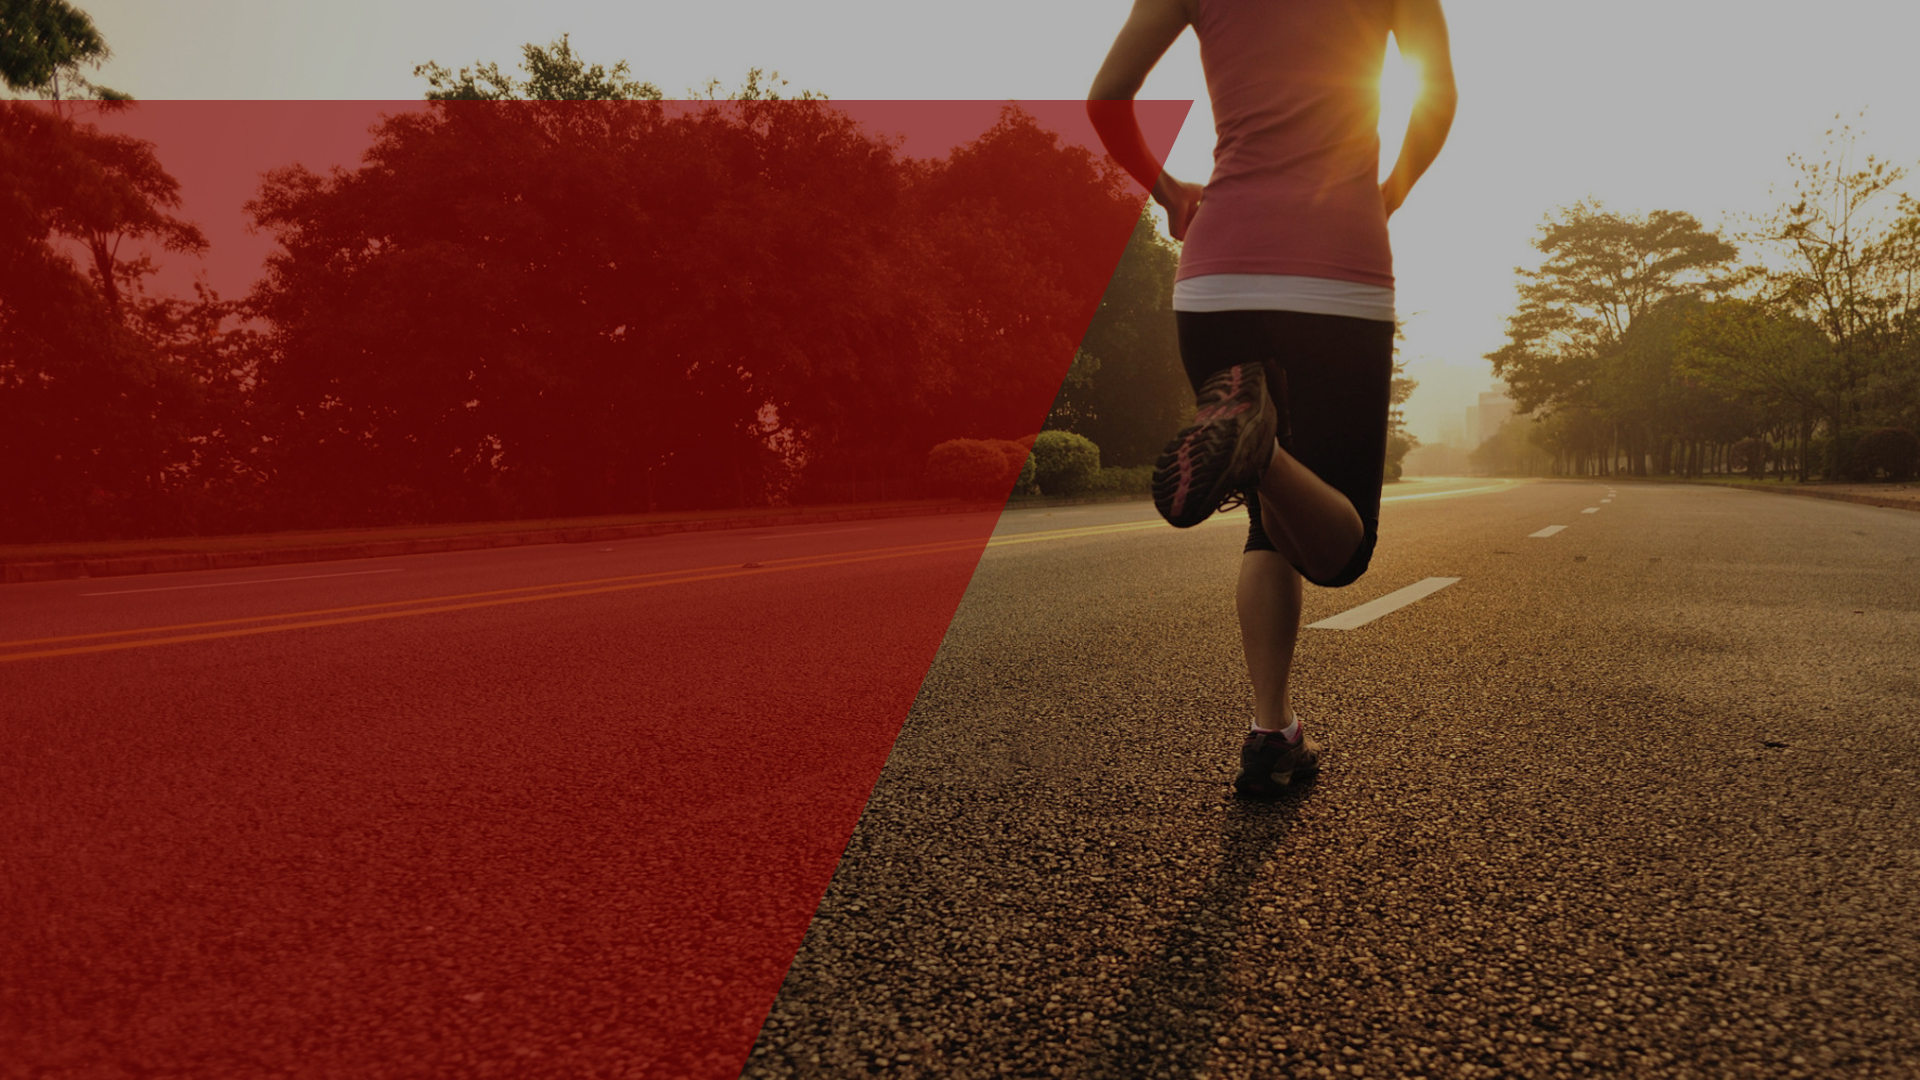
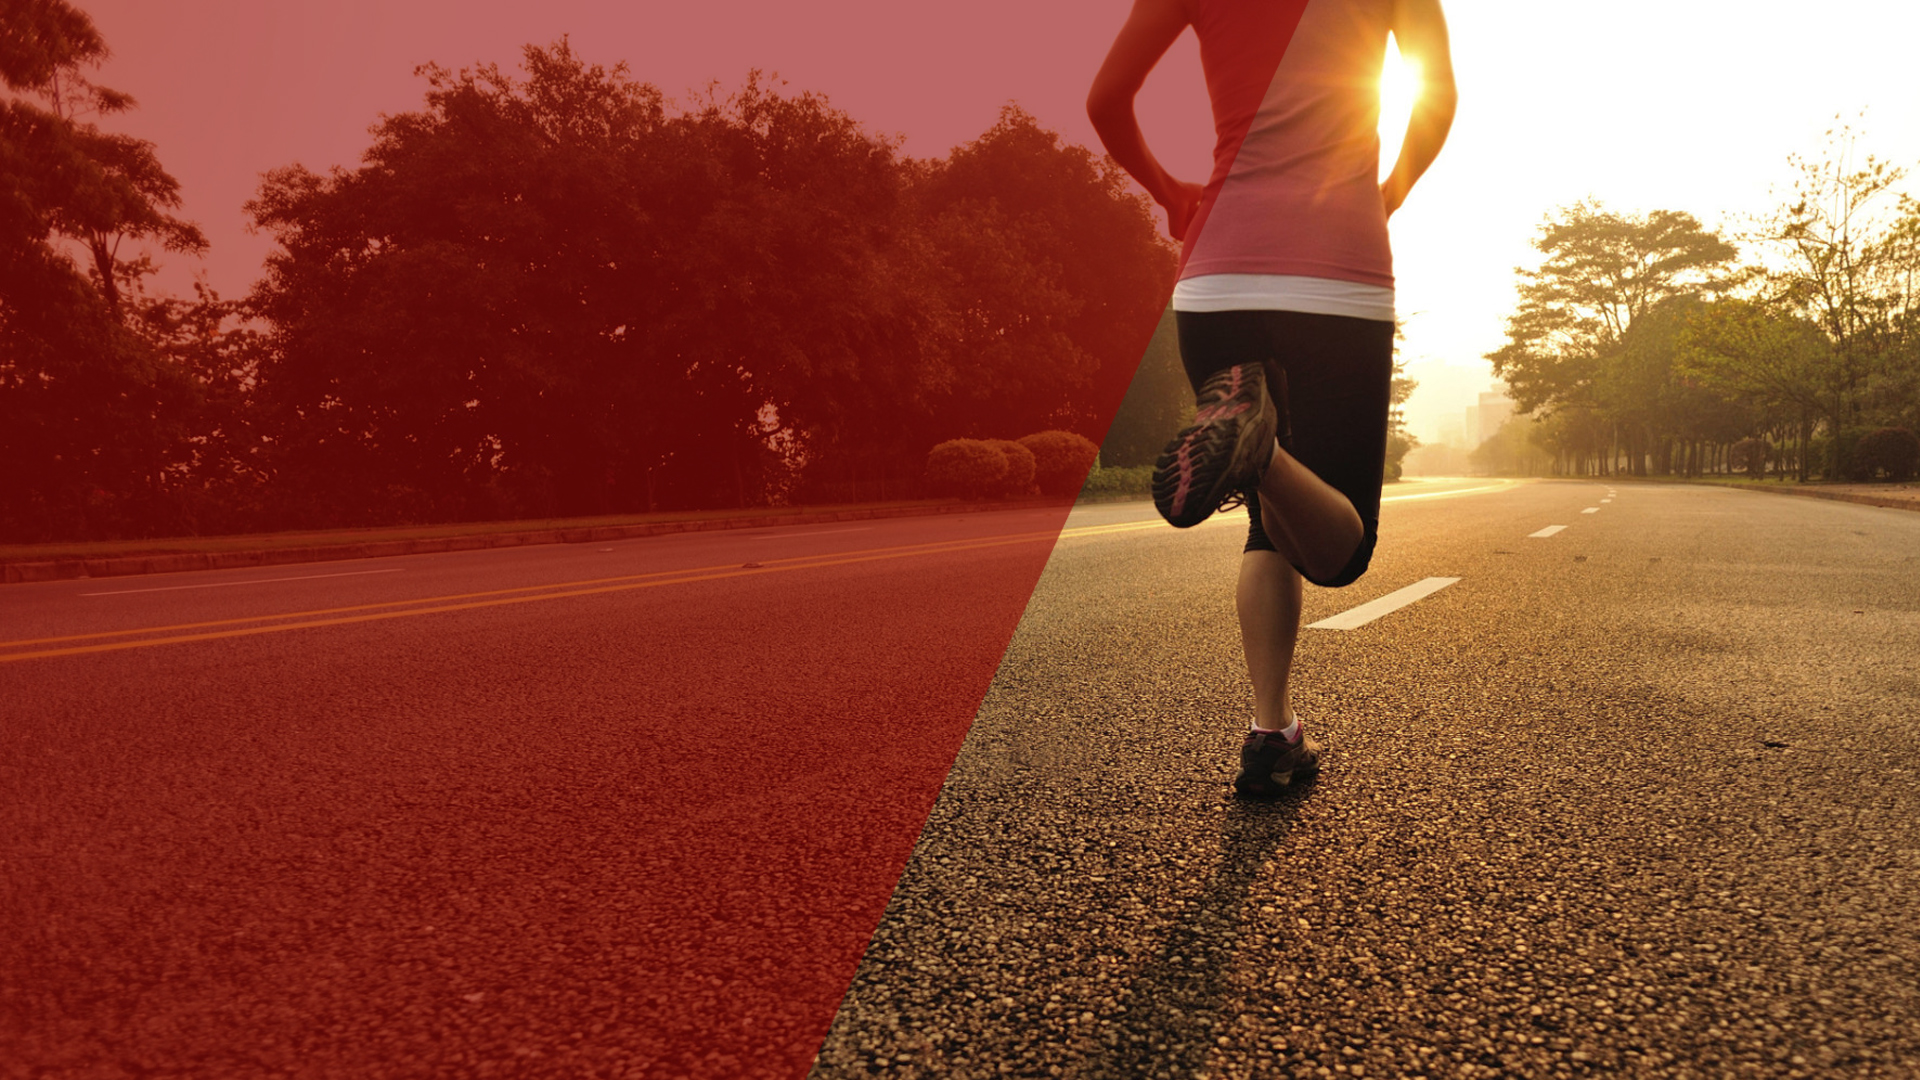
Creación del layout principal de la página V2

diff --git a/css/styles.css b/css/styles.css
@@ -4,11 +4,12 @@ body
 
     color: #fff;
 }
-.fondo img
+.fondo1 img
 {
-    position: fixed;
+    position: absolute;
     z-index: -100;
     left: 50%;
+    top: 0px;
 
     width: auto;
     min-width: 100%;
@@ -17,7 +18,20 @@ body
 
     transform: translateX(-50%);
 }
+.fondo2 img
+{
+    position: absolute;
+    z-index: -100;
+    left: 50%;
+    top: 100vh;
 
+    width: auto;
+    min-width: 100%;
+    height: auto;
+    min-height: 100%;
+
+    transform: translateX(-50%);
+}
 header
 {
     position: fixed;
@@ -27,7 +41,8 @@ header
     width: 100%;
     height: 100px;
 
-    background-color: rgba(138, 138, 138, .9);
+    background-color: rgba(138, 138, 138, 0.9);
+    z-index: 100;
 }
 
 header h1
@@ -73,30 +88,36 @@ header a:nth-of-type(2)
 
     color: #fff;
 }
+main {
+    margin-top: 100px; 
+    min-height: 100vh;
+}
+section
+{
+    height: 100vh;
+}
 section h1
 {
     font-size: 75px;
-
-    position: absolute;
-    top: 400px;
-    left: 60px;
 
     display: block;
 
     width: 30%;
     min-width: 500px;
+    padding-top: 100px;
+    padding-left: 60px;
 }
 section > a
 {
     font-size: 40px;
     line-height: 84px;
 
-    position: absolute;
-    top: 675px;
-    left: 60px;
+    display: block;
 
     width: 500px;
     height: 84px;
+    margin-top: 100px;
+    margin-left: 60px;
 
     text-align: center;
     text-decoration: none;
@@ -105,19 +126,24 @@ section > a
     border: 3px solid white;
     border-radius: 50px;
 }
-.down {
+.down
+{
     position: absolute;
     bottom: 30px;
+
     width: 100%;
+
     text-align: center;
 }
-.network
-{
-    position: absolute;
-    right: 30px;
-    bottom: 30px;
+footer {
+    height: 50vh;
+    background-color: rgba(138, 138, 138, 1);
 }
-.network a
-{
-    margin: 0 10px;
+.login:hover {
+    background-color: #fff;
+    color: #8d0202;  
+}
+section > a:hover {
+    background-color: #fff;
+    color: #8d0202;
 }

diff --git a/index.html b/index.html
@@ -11,44 +11,36 @@
 		<title></title>
 	</head>
 	<body>
-		<div class="fondo">
-			<img src="media/images/background.jpg" alt="">
-			<div></div>
-		</div>
 		<header>
 			<h1>ALIMA</h1>
-			<a href="#">Registrarse</a>
-			<a href="#">Iniciar Sesión</a>
+			<a href="#" class="registrarse">Registrarse</a>
+			<a href="#" class="login">Iniciar Sesión</a>
 		</header>
 		<main>
 			<section>
+				<div class="fondo1">
+					<img src="media/images/background.jpg" alt="">
+					<div></div>
+				</div>
 				<h1>Hay un millón de razones para correr</h1>
 				<a href="#">¡Empieza ahora gratis!</a>
 				<div class="down">
 					<img src="media/images/down.png" alt="">
 				</div>
-				<div class="network">
-					<a href="#"><img src="media/images/instagram.png" alt=""></a>
-					<a href="#"><img src="media/images/facebook.png" alt=""></a>
-					<a href="#"><img src="media/images/twitter.png" alt=""></a>
-				</div>
 			</section>
 			<section>
-				
+				<div class="fondo2">
+					<img src="media/images/background.jpg" alt="">
+					<div></div>
+				</div>
 			</section>
 		</main>
-		<footer>
+ 		<footer>
 			<h1>ALIMA</h1>
 			<div>
 				<span></span>
 				<span></span>
 			</div>
 		</footer>
-		<script language="JavaScript"> 
-function checkKey(evt) { 
-if (evt.ctrlKey) 
-alert("Alerta que se le dara al usuario al tocar la tecla Ctrl en nuestra web"); 
-} 
-</script> 
 	</body>
 </html>
